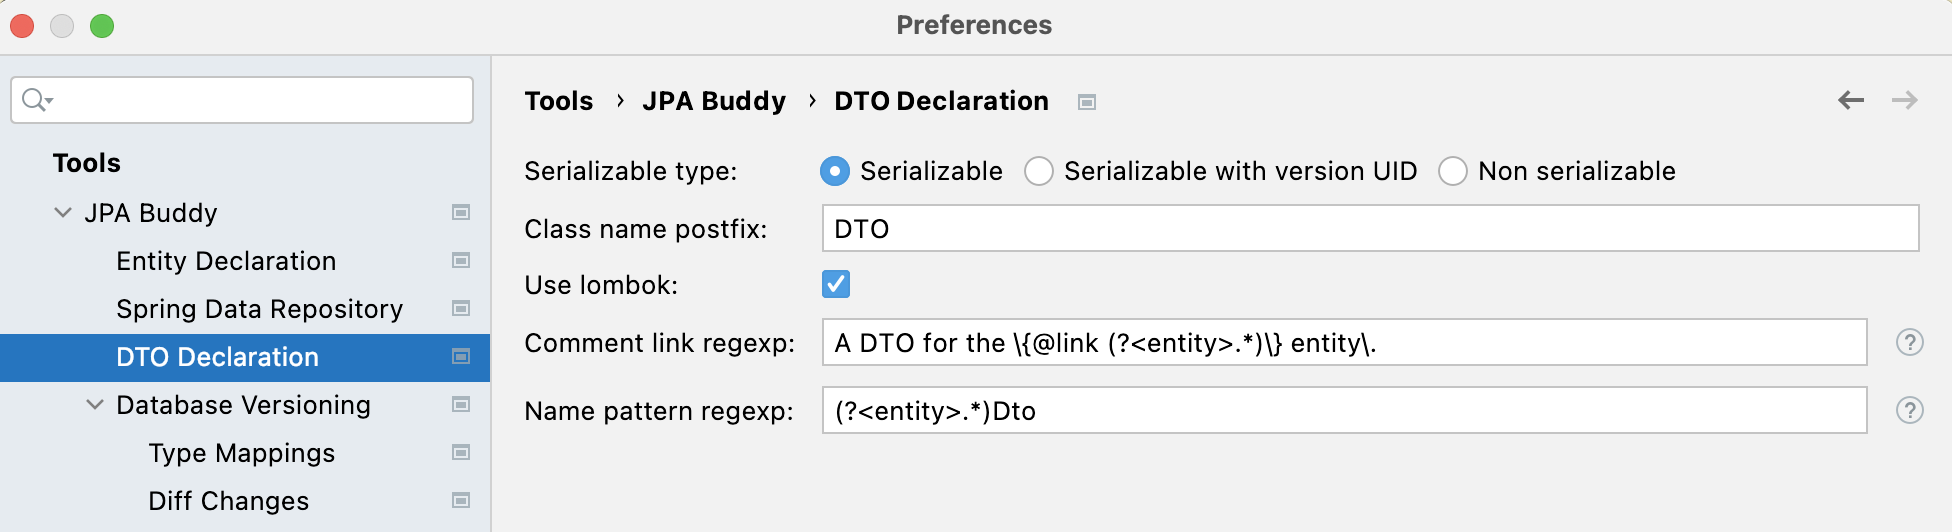
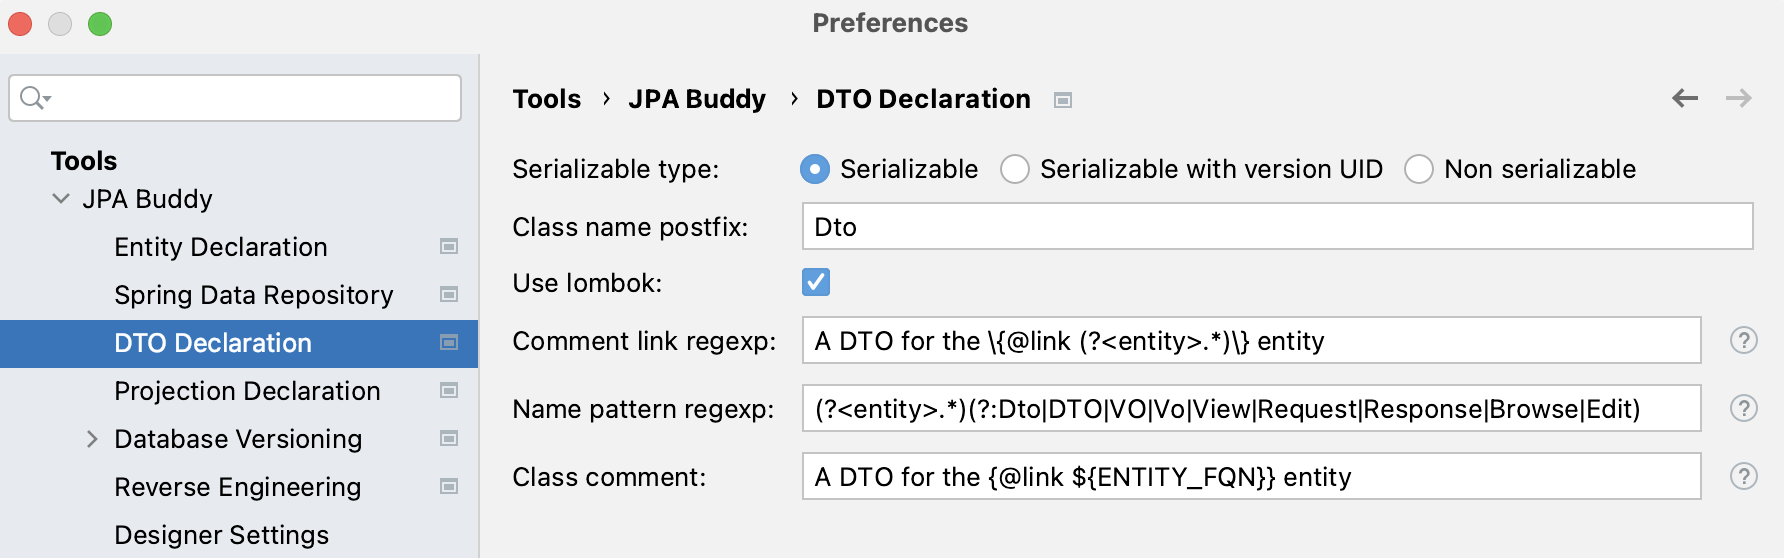
DTO declaration settings changes #84

diff --git a/dto-generator/dto-generator.md b/dto-generator/dto-generator.md
@@ -104,7 +104,7 @@ Each project may follow its own conventions for code writing. In the Tools -> JP
 
 - Whether to use Lombok or not.
 
-- Comment link regexp. It allows JPA Buddy to associate DTO with its JPA Entity. To specify a placeholder for the target entity FQN in a comment use the `(?<entity>.*)` pattern. So, if the regexp is defined as `A DTO for the{@link (?.*)} entity.` it will be resolved in the following Javadoc comment:
+- Comment link regexp. It allows JPA Buddy to associate DTO with its JPA Entity. To specify a placeholder for the target entity FQN (Fully Qualified Name) in a comment use the `(?<entity>.*)` pattern. So, if the regexp is defined as `A DTO for the{@link (?.*)} entity.` it will be resolved in the following Javadoc comment:
 
     ```java
     /**
@@ -116,9 +116,13 @@ Each project may follow its own conventions for code writing. In the Tools -> JP
 
 - Name pattern regexp. This option is useful if you use an obligatory naming convention for DTOs. It allows JPA Buddy to associate DTO with its JPA Entity using a DTO name only. To specify a placeholder for the simple class name of the target JPA entity, use the `(?<entity>.)` pattern. E.g., `(?.)Dto` means that the `MyEntityDto` class will be considered as a DTO for `MyEntity`. The feature is disabled when the field is empty.
 
-As soon as JPA Buddy is able to associate DTO class with the entity:
-  - The DTO class will appear in the DTOs section in the JPA Structure panel (1)
-  - The gutter icon will appear in both entity and DTO to ease the navigation between them (2)
-  - The gutter icons will appear to navigate to the entity fields from the DTO fields (3)
+- Class comment. Defines the comment that will be generated over the DTO class.
 
-![comment_link_regexp](img/comment_link_regexp.png)
+### Convinient Navigation between Entity and its DTOs
+
+As soon as JPA Buddy is able to associate DTO class with the entity:
+
+  - The DTO class will appear in the **Dto & Projections** section in the JPA Structure panel and in the Editor Toolbar (1)
+- The gutter icon will appear in the DTO to ease the navigation to its entity (2)
+
+![dto_navigation](img/dto_navigation.png)
